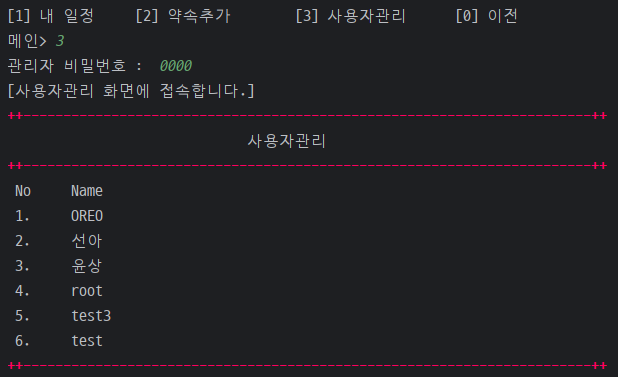
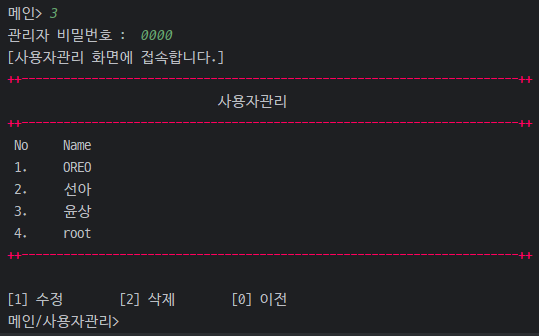
README

diff --git a/README.md b/README.md
@@ -6,6 +6,7 @@
   - 비트캠프 미니프로젝트 2
   - 개인 및 지인들과의 밥약속 일정을 관리하는 프로그램
 - 개발기간 : 2024-07-01 ~ 2024-07-05
+<!-- 이후 UI, 기능 분리 -->
 
 
 ### 개발팀
@@ -26,7 +27,7 @@ https://velog.io/@luna7182/%EB%B0%B1%EC%97%94%EB%93%9C-%ED%94%84%EB%A1%9C%EC%A0%
 
 
 <br><br>
-# 시작 가이드
+# 1. 시작 가이드
 
 ### Requirements
 - JDK 21
@@ -47,7 +48,7 @@ $ java -cp app/bin/main bitcamp.project2.App
 
 
 <br><br>
-# 기술 스택
+# 2. 기술 스택
 <!-- https://github.com/Ileriayo/markdown-badges?tab=readme-ov-file#badges -->
 
 ### Environment
@@ -63,8 +64,42 @@ $ java -cp app/bin/main bitcamp.project2.App
 <!-- 상황에 따라 config, test, deploy 등 추가 -->
 
 
+<!-- 채택한 개발 기술과 브랜치 전략 -->
+
+<br><br.
+# 3. 프로젝트 구조
+<pre>
+📦src
+ ┣ 📂main
+ ┃ ┣ 📂java
+ ┃ ┃ ┗ 📂bitcamp
+ ┃ ┃ ┃ ┗ 📂project2
+ ┃ ┃ ┃ ┃ ┣ 📂controller
+ ┃ ┃ ┃ ┃ ┃ ┣ 📜AppointmentController.java
+ ┃ ┃ ┃ ┃ ┃ ┣ 📜PlanController.java
+ ┃ ┃ ┃ ┃ ┃ ┗ 📜UserController.java
+ ┃ ┃ ┃ ┃ ┣ 📂util
+ ┃ ┃ ┃ ┃ ┃ ┣ 📜Membership.java
+ ┃ ┃ ┃ ┃ ┃ ┣ 📜Menu.java
+ ┃ ┃ ┃ ┃ ┃ ┗ 📜Prompt.java
+ ┃ ┃ ┃ ┃ ┣ 📂vo
+ ┃ ┃ ┃ ┃ ┃ ┣ 📜Plan.java
+ ┃ ┃ ┃ ┃ ┃ ┗ 📜User.java
+ ┃ ┃ ┃ ┃ ┣ 📜App.java
+ ┃ ┃ ┃ ┃ ┗ 📜DummyData.java
+ ┃ ┗ 📂resources
+ ┃ ┃ ┗ 📜README.md
+ ┗ 📂test
+ ┃ ┣ 📂java
+ ┃ ┃ ┗ 📂bitcamp
+ ┃ ┃ ┃ ┗ 📂project2
+ ┃ ┃ ┃ ┃ ┗ 📜AppTest.java
+ ┃ ┗ 📂resources
+ ┃ ┃ ┗ 📜README.md
+</pre>
+
 <br><br>
-# 주요 기능
+# 4. 주요 기능
 
 ### 개인 일정 관리
 - 제목, 기간, 필요시 반복요일 설정을 통해 일정 관리 가능
@@ -74,39 +109,60 @@ $ java -cp app/bin/main bitcamp.project2.App
 
 
 <br><br>
-# 화면 구성
+# 5. 화면 구성 및 기능
 
 ### 회원가입
+- ID 입력 시 중복 검사가 진행되고, 중복일 경우 경고 문구를 출력합니다.
+- 중복 검사를 통과할 경우 비밀번호를 입력받은 후 가입을 완료합니다.
 <img src="README_images/join.png" alt="회원가입" width="412" height = "176">
 
 ### 로그인
+- ID를 입력받은 후, 해당하는 ID가 없으면 경고 문구를 출력합니다.
+- ID가 일치하면 PW를 입력받은 후, 일치하면 로그인에 성공하여 메인으로 이동합니다.
 <img src="README_images/login.png" alt="로그인" width="422" height = "172">
 
-### 메인 페이지
+### 메인
+- 메인화면 로고 하단에 약속 목록을 출력합니다.
+- 번호를 통해 각 메뉴로 이동할 수 있습니다.
 <img src="README_images/main.png" alt="메인">
 
 ### 내 일정
+- 등록되어 있는 개인 일정 목록을 출력합니다.
+- 번호를 통해 각 메뉴로 이동할 수 있습니다.
 <img src="README_images/myPlan.png" alt="내 일정">
 
-- 등록
+[등록]
+- 제목과 약속을 잡을 월을 입력받은 후, 해당 월의 달력을 출력합니다. (연도는 2024 고정)
+- 달력을 참고하여 원하는 날짜나 기간, 필요하면 반복할 요일을 dd-dd day 형식으로 입력하여 등록합니다.
 <img src="README_images/myPlan_create.png" alt="내 일정 - 등록">
 
-- 수정
+[수정]
+- 수정할 일정 및 항목을 선택한 후 재설정합니다.
 <img src="README_images/myPlan_update.png" alt="내 일정 - 수정">
 
-- 삭제
+[삭제]
+- 삭제할 일정을 선택하면 1회 재확인 후 삭제합니다.
 <img src="README_images/myPlan_delete.png" alt="내 일정 - 삭제">
 
 ### 약속추가
+- 여러 사용자를 입력한 후, 약속이 가능한 기간을 계산하는 출력하는 기능입니다.
+- '함께 할 사람'과 '검색할 기간'을 입력하면, 해당 월에서 입력받은 사용자가 모두 약속이 가능한 일정을 목록으로 보여줍니다.
+- 이후 일정을 바로 등록하고자 한다면 y 및 기간을 입력하여 등록합니다.
 <img src="README_images/addAppointment.png" alt="약속추가">
 
 ### 사용자관리
+- 관리자 비밀번호를 확인한 후, 비밀번호가 일치하면 사용자관리 화면으로 이동합니다.
+- 사용자에 대한 수정, 삭제를 수행할 수 있습니다.
 <img src="README_images/manageUser.png" alt="사용자관리">
 
-- 수정
+[수정]
+- 수정할 사용자 및 항목을 선택한 후 재설정합니다.
 <img src="README_images/manageUser_update.png" alt="사용자관리">
 
-- 삭제
+[삭제]
+- 삭제할 사용자를 선택하면 1회 재확인 후 삭제합니다.
+- 삭제한 사용자는 메인 화면의 약속 목록에서 사라집니다.
+- 로그인한 사용자 본인을 삭제하려 하면 경고 문구를 출력합니다.
 <img src="README_images/manageUser_delete.png" alt="사용자관리">
 
 
